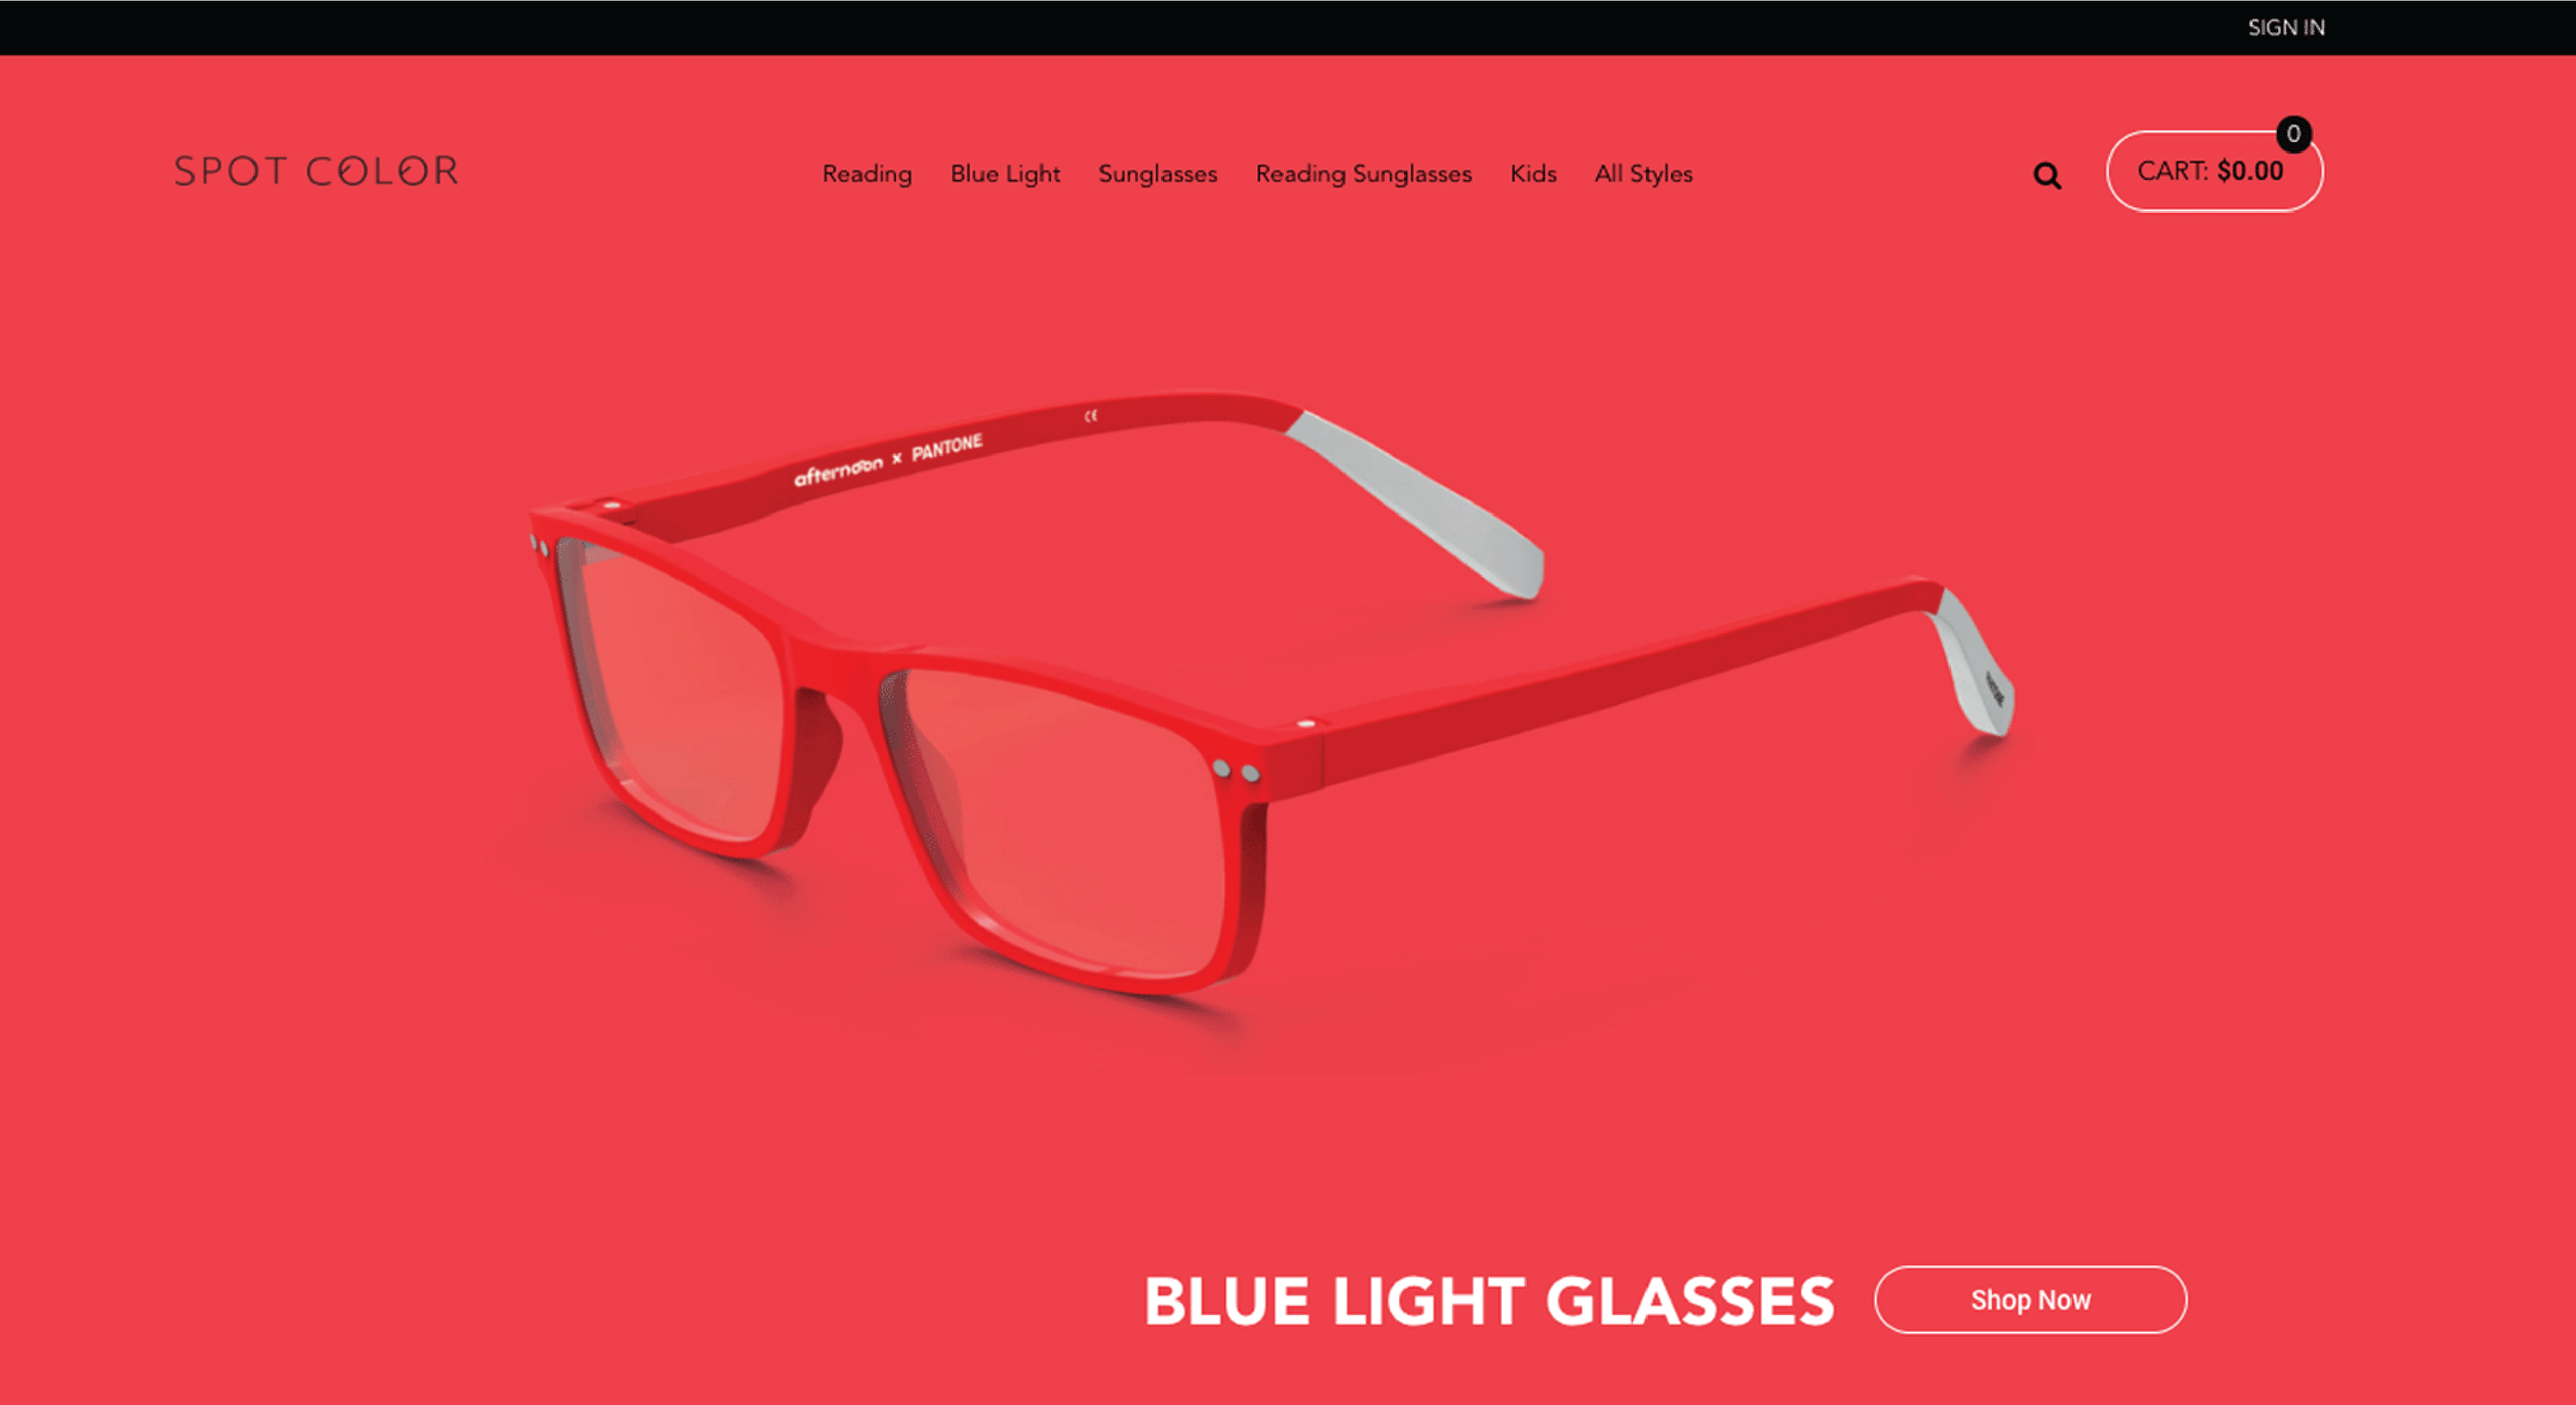
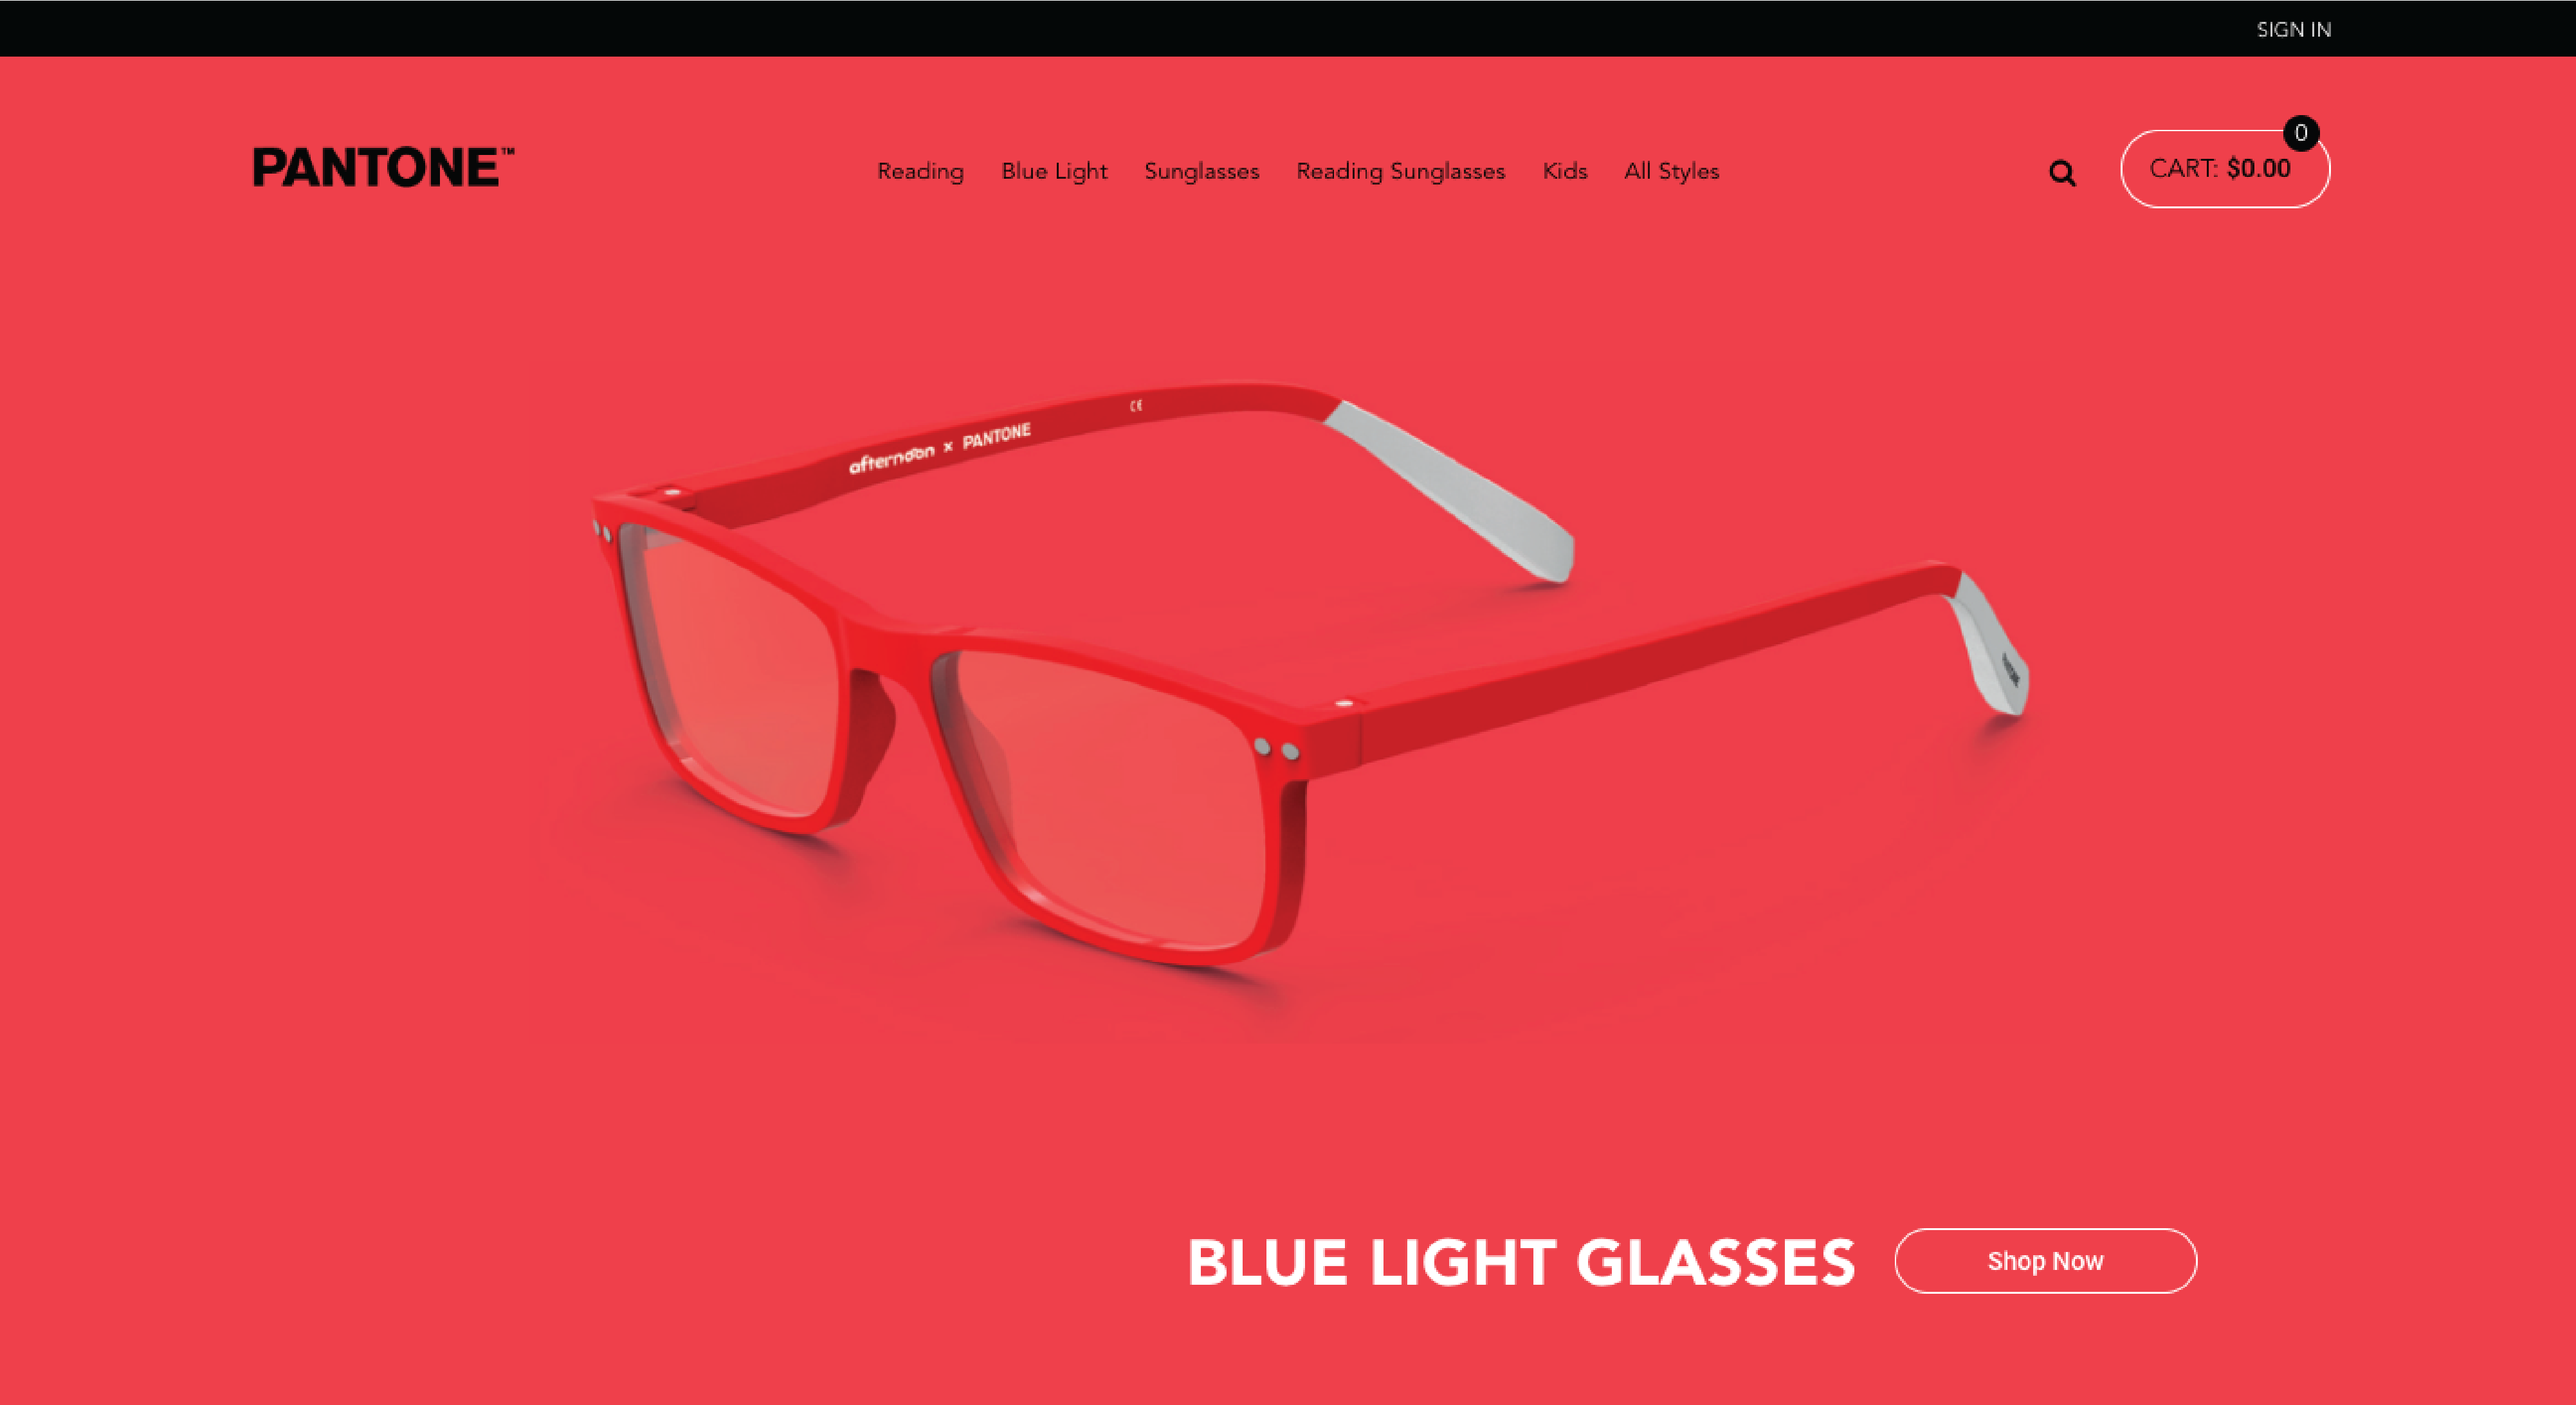
included gsap

diff --git a/src/components/sidebar/sidebar.js b/src/components/sidebar/sidebar.js
@@ -6,20 +6,30 @@ const Sidebar = (props) => {
 
     let classes_sidebar = [classes.sidebar];
 
-    let home, nohome, style
-    console.log(props.page);
+    let home, nohome
 
     if(props.page === "visuAll_page"){
       home = classes.hide
-      if (props.show) 
-        classes_sidebar = [classes.sidebar, classes.open, classes.dark].join(' ')
-      else 
-        classes_sidebar = [classes.sidebar, classes.dark].join(' ')
+      if (props.show){
+        classes_sidebar.push(classes.open, classes.dark)
+        classes_sidebar = classes_sidebar.join(' ')
+        //classes_sidebar = [classes.sidebar, classes.open, classes.dark].join(' ')      
+      }
+      else{
+        classes_sidebar.push(classes.dark)
+        classes_sidebar = classes_sidebar.join(' ')
+        //classes_sidebar = [classes.sidebar, classes.dark].join(' ')
+      }
+        
+        
     }
     else{
       nohome = classes.hide
-      if (props.show) 
-        classes_sidebar = [classes.sidebar, classes.open].join(' ')
+      if (props.show){
+        classes_sidebar.push(classes.open)
+        classes_sidebar = classes_sidebar.join(' ')
+        //classes_sidebar = [classes.sidebar, classes.open].join(' ')
+      } 
     }
 
     // if (props.show){
@@ -33,11 +43,11 @@ const Sidebar = (props) => {
       <nav className={classes_sidebar}>          
         <ul className="sidebar_btn">
           {/* <button onClick={props.SidebarClickHandler} className={classes.closeBtn}>Close &times;</button> */}
-          <li className = {home}><a href="#about" onClick={props.SidebarClickHandler}><span>ABOUT</span></a></li>
-          <li className = {home}><a href="#work" onClick={props.SidebarClickHandler}><span>WORK</span></a></li>
-          <li className = {home}><a href="#contact" onClick={props.SidebarClickHandler}><span>CONTACT</span></a></li>
+          <li className = {home}><a href="javascript:void(0)" onClick={()=>props.SidebarClickHandler('#about')}><span>ABOUT</span></a></li>
+          <li className = {home}><a href="javascript:void(0)" onClick={()=>props.SidebarClickHandler('#work')}><span>WORK</span></a></li>
+          <li className = {home}><a href="javascript:void(0)" onClick={()=>props.SidebarClickHandler('#contact')}><span>CONTACT</span></a></li>
           <li className = {nohome}><Link to="/" className = {classes.customBtn}><span>HOME</span></Link></li>
-          <li><a href="#" onClick={props.SidebarClickHandler}><span>BYE!</span></a></li>
+          <li><a href="javascript:void(0)" onClick={()=>props.SidebarClickHandler('#home')}><span>BYE!</span></a></li>
         </ul>
       </nav>
 

diff --git a/src/components/home/home.js b/src/components/home/home.js
@@ -5,11 +5,11 @@ import classes from './home.module.css'
 /*IMAGES*/
 import contact_icon from "../../images/contact-icon.svg"
 
-const Home = () =>{
+const Home = (props) =>{
     return (   
-        <section className={classes.homeContainer}>
-        <a href="#work"><h2 className={classes.floatingWork}>Work</h2></a>
-        <a href="#about"><h3 className={classes.floatingAbout}>About</h3></a>
+        <section className={classes.homeContainer} id="home">
+        <a href="javascript:void(0)" onClick={()=>props.ScrollClickHandler('#work')} className="link"><h2 className={classes.floatingWork}>Work</h2></a>
+        <a href="javascript:void(0)" onClick={()=>props.ScrollClickHandler('#about')} className="link"><h3 className={classes.floatingAbout}>About</h3></a>
 
         <div className={classes.portfolioParent}>
             <div className={classes.portfolioContainer}>
@@ -21,7 +21,7 @@ const Home = () =>{
             </div>
         </div>
 
-        <a href="#contact" className={classes.contactIcon}>
+        <a href="javascript:void(0)" onClick={()=>props.ScrollClickHandler('#contact')} className={classes.contactIcon}>
             <img src={contact_icon} alt="contact icon" />
         </a>
 

diff --git a/src/components/layout/layout.js b/src/components/layout/layout.js
@@ -13,6 +13,9 @@ import Header from "../header/header"
 import Sidebar from "../sidebar/sidebar"
 import "./layout.css"
 
+import TweenLite from 'gsap'
+import scrollTo from 'gsap/src/uncompressed/plugins/ScrollToPlugin'
+
 const Layout = (props) => {
   const data = useStaticQuery(graphql`
     query SiteTitleQuery {
@@ -30,16 +33,17 @@ const Layout = (props) => {
     setState(true)
   }
 
-  const SidebarToggleClickHandler = () =>{
+  const SidebarToggleClickHandler = (location) =>{
     setState(false)
+    TweenLite.to(window, .8, {scrollTo: location})
   }
 
 
   return (
     <>
-      <Sidebar SidebarClickHandler = {SidebarToggleClickHandler} show={state} page={props.page}/>
+      <Sidebar SidebarClickHandler = {SidebarToggleClickHandler} SidebarScrollClickHandler= {props.ScrollClickHandler} show={state} page={props.page}/>
 
-      <Header siteTitle={data.site.siteMetadata.title} HeaderClickHandler = {HeaderToggleClickHandler}/>
+      <Header siteTitle={data.site.siteMetadata.title} HeaderClickHandler = {HeaderToggleClickHandler} page={props.page}/>
 
       <main className={props.page}>{props.children}</main>
         {/* <footer>

diff --git a/src/components/about/about.module.css b/src/components/about/about.module.css
@@ -1,21 +1,47 @@
-.about p{
+.about{
+    position: relative;
     padding: 4rem 1rem;
 }
-  
-.about p{
+
+.about h2{
+    font-family: 'Montserrat', Arial, sans-serif;
+    font-weight: 400;
     color: #F16475;
 }
 
 .highlightedText{
     color: white;
     font-family: 'Lot', Arial, sans-serif!important;
-    font-size: 1.2rem;
+    font-size: 1.8rem;
 }
 
 @media (min-width: 768px) {
 
-    .about p{
-        padding: 10rem 0 3rem 4.5rem;
+    .about{
+        padding: 10rem 1rem 5rem 4.5rem;
+        max-width: 60rem;
+        height: 100vh;
+        display: -webkit-box;
+        display: -ms-flexbox;
+        display: flex;
+        -webkit-box-orient: vertical;
+        -webkit-box-direction: normal;
+            -ms-flex-flow: column nowrap;
+                flex-flow: column nowrap;
+        -webkit-box-align: center;
+            -ms-flex-align: center;
+                align-items: center;
+        -webkit-box-pack: center;
+            -ms-flex-pack: center;
+                justify-content: center;
     }
 
+    .about h2{
+        font-size: 2.5rem;
+    }
+
+    .highlightedText{
+        font-size: 2.8rem;
+    }
+ 
 }

diff --git a/src/components/header/header.js b/src/components/header/header.js
@@ -2,20 +2,22 @@ import { Link } from "gatsby"
 import PropTypes from "prop-types"
 import React from "react"
 import classes from './header.module.css'
+import { visuAll } from "../../data/work";
 
 const Header = (props) => {
+
+  let classes_container = [classes.container];
+
+  if(props.page === "visuAll_page"){
+    classes_container.push(classes.darkBack)
+    classes_container = classes_container.join(' ')
+  }
+    
 
   return(
     <header>
       <nav>
-        {/* <div className="toolbar_navigation_items" style={style}>
-          <button onClick={close} className="w3-bar-item w3-button w3-large">Close &times;</button>
-          <a href="#" className=""><span>ABOUT</span></a>
-          <a href="#" className=""><span>WORK</span></a>
-          <a href="#" className=""><span>CONTACT</span></a>
-        </div> */}
-
-        <div className={classes.container}>
+        <div className={classes_container}>
           <a onClick={props.HeaderClickHandler} className={classes.menuIcon}>{"{ }"}</a>
         </div>
       </nav>

diff --git a/src/components/about/about.js b/src/components/about/about.js
@@ -8,7 +8,8 @@ const About = () =>{
     return (   
         <section id="about">
             <div className={classes.about}>
-                <p>Hello! I’m Yuliet Remon, a <span className={classes.highlightedText}>Front-end developer</span> based  in Florida, passionate for interactive web development.</p>
+                <h2>Hello! I’m Yuliet Remon, a <span className={classes.highlightedText}>Front-end developer</span> based  in Florida, passionate for design and interactive web development.</h2>
+                <h2>I like to learn new things... this page is the result of me, learning Gatsby and React. Below some of my work :)</h2>
             </div>
         </section>  
     )

diff --git a/src/pages/index.js b/src/pages/index.js
@@ -10,12 +10,21 @@ import Contact from "../components/contact/contact"
 import ImageTextList from "../components/imageTextList/imageTextList"
 import SEO from "../components/seo"
 
-const IndexPage = () => (
+import TweenLite from 'gsap'
+import scrollTo from 'gsap/src/uncompressed/plugins/ScrollToPlugin'
+
+const IndexPage = () => {
+
+  const ScrollGoClickHandler = (location)=>{
+    TweenLite.to(window, .8, {scrollTo: location})
+  }
+
+return(
   <Layout page="home_page">
 
     <SEO title="Home" />
 
-    <Home/>
+    <Home ScrollClickHandler={ScrollGoClickHandler}/>
 
     <About/>
 
@@ -26,6 +35,6 @@ const IndexPage = () => (
   </Layout>
 
   
-)
+)};
 
 export default IndexPage

diff --git a/src/components/contact/contact.module.css b/src/components/contact/contact.module.css
@@ -62,3 +62,23 @@
 	-webkit-filter: brightness(0) invert(1);
     filter: brightness(0) invert(1);
 }
+
+@media (min-width: 768px) {
+	.contact{
+		height: 100vh;
+		display: -webkit-box;
+		display: -ms-flexbox;
+		display: flex;
+		-webkit-box-orient: vertical;
+		-webkit-box-direction: normal;
+			-ms-flex-flow: column nowrap;
+				flex-flow: column nowrap;
+		-webkit-box-align: center;
+			-ms-flex-align: center;
+				align-items: center;
+		-webkit-box-pack: center;
+			-ms-flex-pack: center;
+				justify-content: center; 
+		padding: 0;
+	}
+}

diff --git a/src/components/header/header.module.css b/src/components/header/header.module.css
@@ -12,9 +12,25 @@ header{
     width: 100%;
   }
 
+.container{
+    display: inline-block;
+    text-align: center;
+    background-color: #2c374aa1;
+    /* padding: .8rem; */
+    border-radius: 50%;
+    height: 3.2rem;
+    width: 3.2rem;
+    white-space: nowrap;
+}
+
+.darkBack{
+  background-color: #06070d8a;
+}
+
 .menuIcon{
     color: white;
     font-family: 'Bebas', Arial, sans-serif!important;
     font-size: 2.2rem;
+    line-height: 3.2rem;
     cursor: pointer;
 }

diff --git a/src/data/work.js b/src/data/work.js
@@ -10,7 +10,7 @@ const data =[
     {
         id: 0,
         subHeading : 'WEBSITE DEVELOPMENT AND AR EXPERIENCE',
-        heading : 'SPOT COLOR',
+        heading : 'PANTONE',
         description : 'WP theme customization, WooCommerce Integration, Responsive development, AR and face recognition Virtual Try-on (work in progress).',
         image : work1,
         link : 'https://www.spotcoloreyewear.com/',
